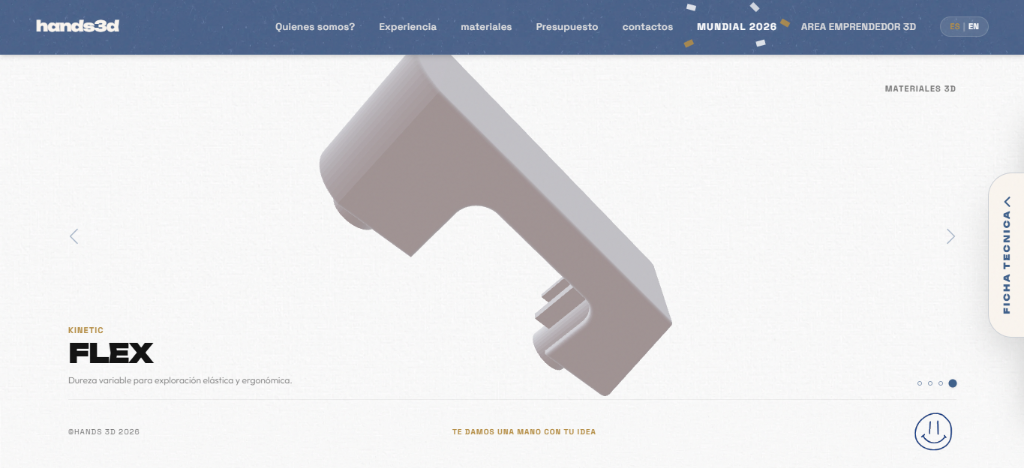
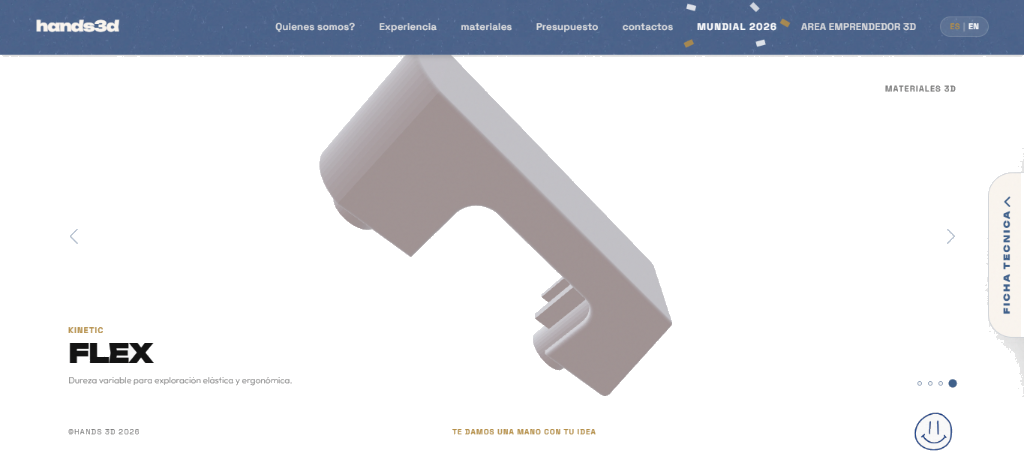
feat: make spool gallery images transparent PNGs and enable interactive zoom/pan controls

diff --git a/src/components/CircularArchive.tsx b/src/components/CircularArchive.tsx
@@ -1,4 +1,4 @@
-import React, { useState } from 'react';
+import React, { useState, useEffect } from 'react';
 import { motion, AnimatePresence } from 'framer-motion';
 import { useAppStore } from '../lib/store';
 
@@ -22,9 +22,14 @@ const CircularArchive: React.FC<CircularArchiveProps> = ({ t, isActive = false }
   const { lang } = useAppStore();
   const [selectedIdx, setSelectedIdx] = useState(0);
   const [isDrawerOpen, setIsDrawerOpen] = useState(false);
+  const [zoom, setZoom] = useState(1);
 
   const materials = t.materia.items;
   const currentMaterial = materials[selectedIdx];
+
+  useEffect(() => {
+    setZoom(1);
+  }, [selectedIdx]);
 
   const handlePrev = () => {
     setSelectedIdx((prevIdx) => (prevIdx - 1 + materials.length) % materials.length);
@@ -52,16 +57,56 @@ const CircularArchive: React.FC<CircularArchiveProps> = ({ t, isActive = false }
                 transition={{ duration: 0.4, ease: [0.16, 1, 0.3, 1] }}
                 className="w-full h-full flex items-center justify-center max-h-[42dvh] md:max-h-[52dvh]"
               >
-                <img
+                <motion.img
+                  drag={zoom > 1}
+                  dragConstraints={{ left: -250, right: 250, top: -250, bottom: 250 }}
+                  dragElastic={0.15}
+                  whileTap={{ cursor: 'grabbing' }}
+                  onDoubleClick={() => setZoom(prev => prev === 1 ? 2 : 1)}
                   src={currentMaterial.img}
                   alt={currentMaterial.t}
-                  className="max-w-full max-h-full object-contain filter drop-shadow-[0_20px_40px_rgba(0,0,0,0.22)] rounded-[2.5rem] border border-[#3e5f8a]/10 backdrop-blur-[2px] bg-white/5 p-2.5 pointer-events-auto"
+                  animate={{ 
+                    scale: zoom,
+                    x: zoom === 1 ? 0 : undefined,
+                    y: zoom === 1 ? 0 : undefined
+                  }}
+                  transition={{ duration: 0.35, ease: [0.16, 1, 0.3, 1] }}
+                  className="max-w-full max-h-full object-contain filter drop-shadow-[0_20px_45px_rgba(0,0,0,0.22)] rounded-[2.5rem] border border-[#3e5f8a]/10 backdrop-blur-[2px] bg-white/5 p-2.5 pointer-events-auto cursor-grab transition-shadow duration-300 select-none"
                 />
               </motion.div>
             )}
           </AnimatePresence>
         </div>
       </div>
+
+      {/* Floating Zoom Controls Pill */}
+      {isActive && (
+        <div className="absolute left-1/2 -translate-x-1/2 bottom-[26%] md:bottom-[22%] z-30 pointer-events-auto flex items-center gap-3 bg-[#FAF5EF]/85 backdrop-blur-md px-4 py-2 rounded-full border border-[#3E5F8A]/15 shadow-xl select-none">
+          <button 
+            onClick={() => setZoom(prev => Math.max(1, prev - 0.5))}
+            className="w-8 h-8 rounded-full flex items-center justify-center text-[#3E5F8A] hover:bg-[#3E5F8A]/10 active:scale-95 transition-all font-black text-lg focus:outline-none cursor-pointer"
+            title={lang === 'es' ? 'Disminuir zoom' : 'Zoom out'}
+          >
+            -
+          </button>
+          
+          <button 
+            onClick={() => setZoom(1)}
+            className="font-space text-[10px] font-bold tracking-widest text-[#3E5F8A]/80 hover:text-[#3E5F8A] transition-colors uppercase focus:outline-none px-2 cursor-pointer"
+            title={lang === 'es' ? 'Restablecer' : 'Reset'}
+          >
+            {zoom === 1 ? '100%' : `${Math.round(zoom * 100)}%`}
+          </button>
+
+          <button 
+            onClick={() => setZoom(prev => Math.min(3, prev + 0.5))}
+            className="w-8 h-8 rounded-full flex items-center justify-center text-[#3E5F8A] hover:bg-[#3E5F8A]/10 active:scale-95 transition-all font-black text-lg focus:outline-none cursor-pointer"
+            title={lang === 'es' ? 'Aumentar zoom' : 'Zoom in'}
+          >
+            +
+          </button>
+        </div>
+      )}
 
       {/* Interactive Controls Overlay */}
       <div className="w-full max-w-7xl mx-auto px-6 md:px-12 flex-1 flex flex-col justify-between pt-24 pb-4 md:pt-28 md:pb-6 relative z-20 pointer-events-none">

diff --git a/src/translations.ts b/src/translations.ts
@@ -99,7 +99,7 @@ export const translations: Record<'es' | 'en', Translation> = {
           t: 'PLA FLEX', 
           s: 'Architectural', 
           d: 'Perfect surface finish with a flexible touch for large-scale architectural models.',
-          img: '/brand/material_pla_flex.jpg',
+          img: '/brand/material_pla_flex.png',
           density: '1.24 g/cm³',
           hardness: '80 Shore D',
           ld: 'Our PLA FLEX is optimized for flexibility and architectural visualization. It offers a smooth, matte finish that hides layer lines while maintaining sharp edge definition. Ideal for urban planning, kinetic models, and structural applications.'
@@ -108,7 +108,7 @@ export const translations: Record<'es' | 'en', Translation> = {
           t: 'ABS HT', 
           s: 'Structural', 
           d: 'High thermal resistance for industrial performance parts.',
-          img: '/brand/material_abs_ht.jpg',
+          img: '/brand/material_abs_ht.png',
           density: '1.05 g/cm³',
           hardness: '75 Shore D',
           ld: 'Engineered for high-temperature environments, ABS HT provides superior mechanical strength and impact resistance. It is the industrial standard for functional prototypes and tooling.'
@@ -117,7 +117,7 @@ export const translations: Record<'es' | 'en', Translation> = {
           t: 'PETG PRO', 
           s: 'Functional', 
           d: 'Chemically inert and impact resistant for functional prototypes.',
-          img: '/brand/material_petg_pro.jpg',
+          img: '/brand/material_petg_pro.png',
           density: '1.27 g/cm³',
           hardness: '78 Shore D',
           ld: 'PETG PRO combines the ease of printing with the strength of industrial materials. It is moisture resistant and chemically stable, making it perfect for custom mechanical components.'
@@ -192,7 +192,7 @@ export const translations: Record<'es' | 'en', Translation> = {
           t: 'PLA FLEX', 
           s: 'Arquitectónico', 
           d: 'Acabado superficial perfecto con un toque flexible para modelos arquitectónicos a gran escala.',
-          img: '/brand/material_pla_flex.jpg',
+          img: '/brand/material_pla_flex.png',
           density: '1.24 g/cm³',
           hardness: '80 Shore D',
           ld: 'Nuestro PLA FLEX está optimizado para flexibilidad y visualización arquitectónica. Ofrece un acabado mate suave que oculta las líneas de capa manteniendo bordes afilados. Ideal para planificación urbana, modelos cinéticos y aplicaciones estructurales.'
@@ -201,7 +201,7 @@ export const translations: Record<'es' | 'en', Translation> = {
           t: 'ABS HT', 
           s: 'Estructural', 
           d: 'Alta resistencia térmica para piezas de rendimiento industrial.',
-          img: '/brand/material_abs_ht.jpg',
+          img: '/brand/material_abs_ht.png',
           density: '1.05 g/cm³',
           hardness: '75 Shore D',
           ld: 'Diseñado para entornos de alta temperatura, el ABS HT proporciona una resistencia mecánica y al impacto superior. Es el estándar industrial para prototipos funcionales y herramental.'
@@ -210,7 +210,7 @@ export const translations: Record<'es' | 'en', Translation> = {
           t: 'PETG PRO', 
           s: 'Funcional', 
           d: 'Químicamente inerte y resistente al impacto para prototipos funcionales.',
-          img: '/brand/material_petg_pro.jpg',
+          img: '/brand/material_petg_pro.png',
           density: '1.27 g/cm³',
           hardness: '78 Shore D',
           ld: 'El PETG PRO combina la facilidad de impresión con la fuerza de materiales industriales. Es resistente a la humedad y químicamente estable, perfecto para componentes mecánicos personalizados.'
